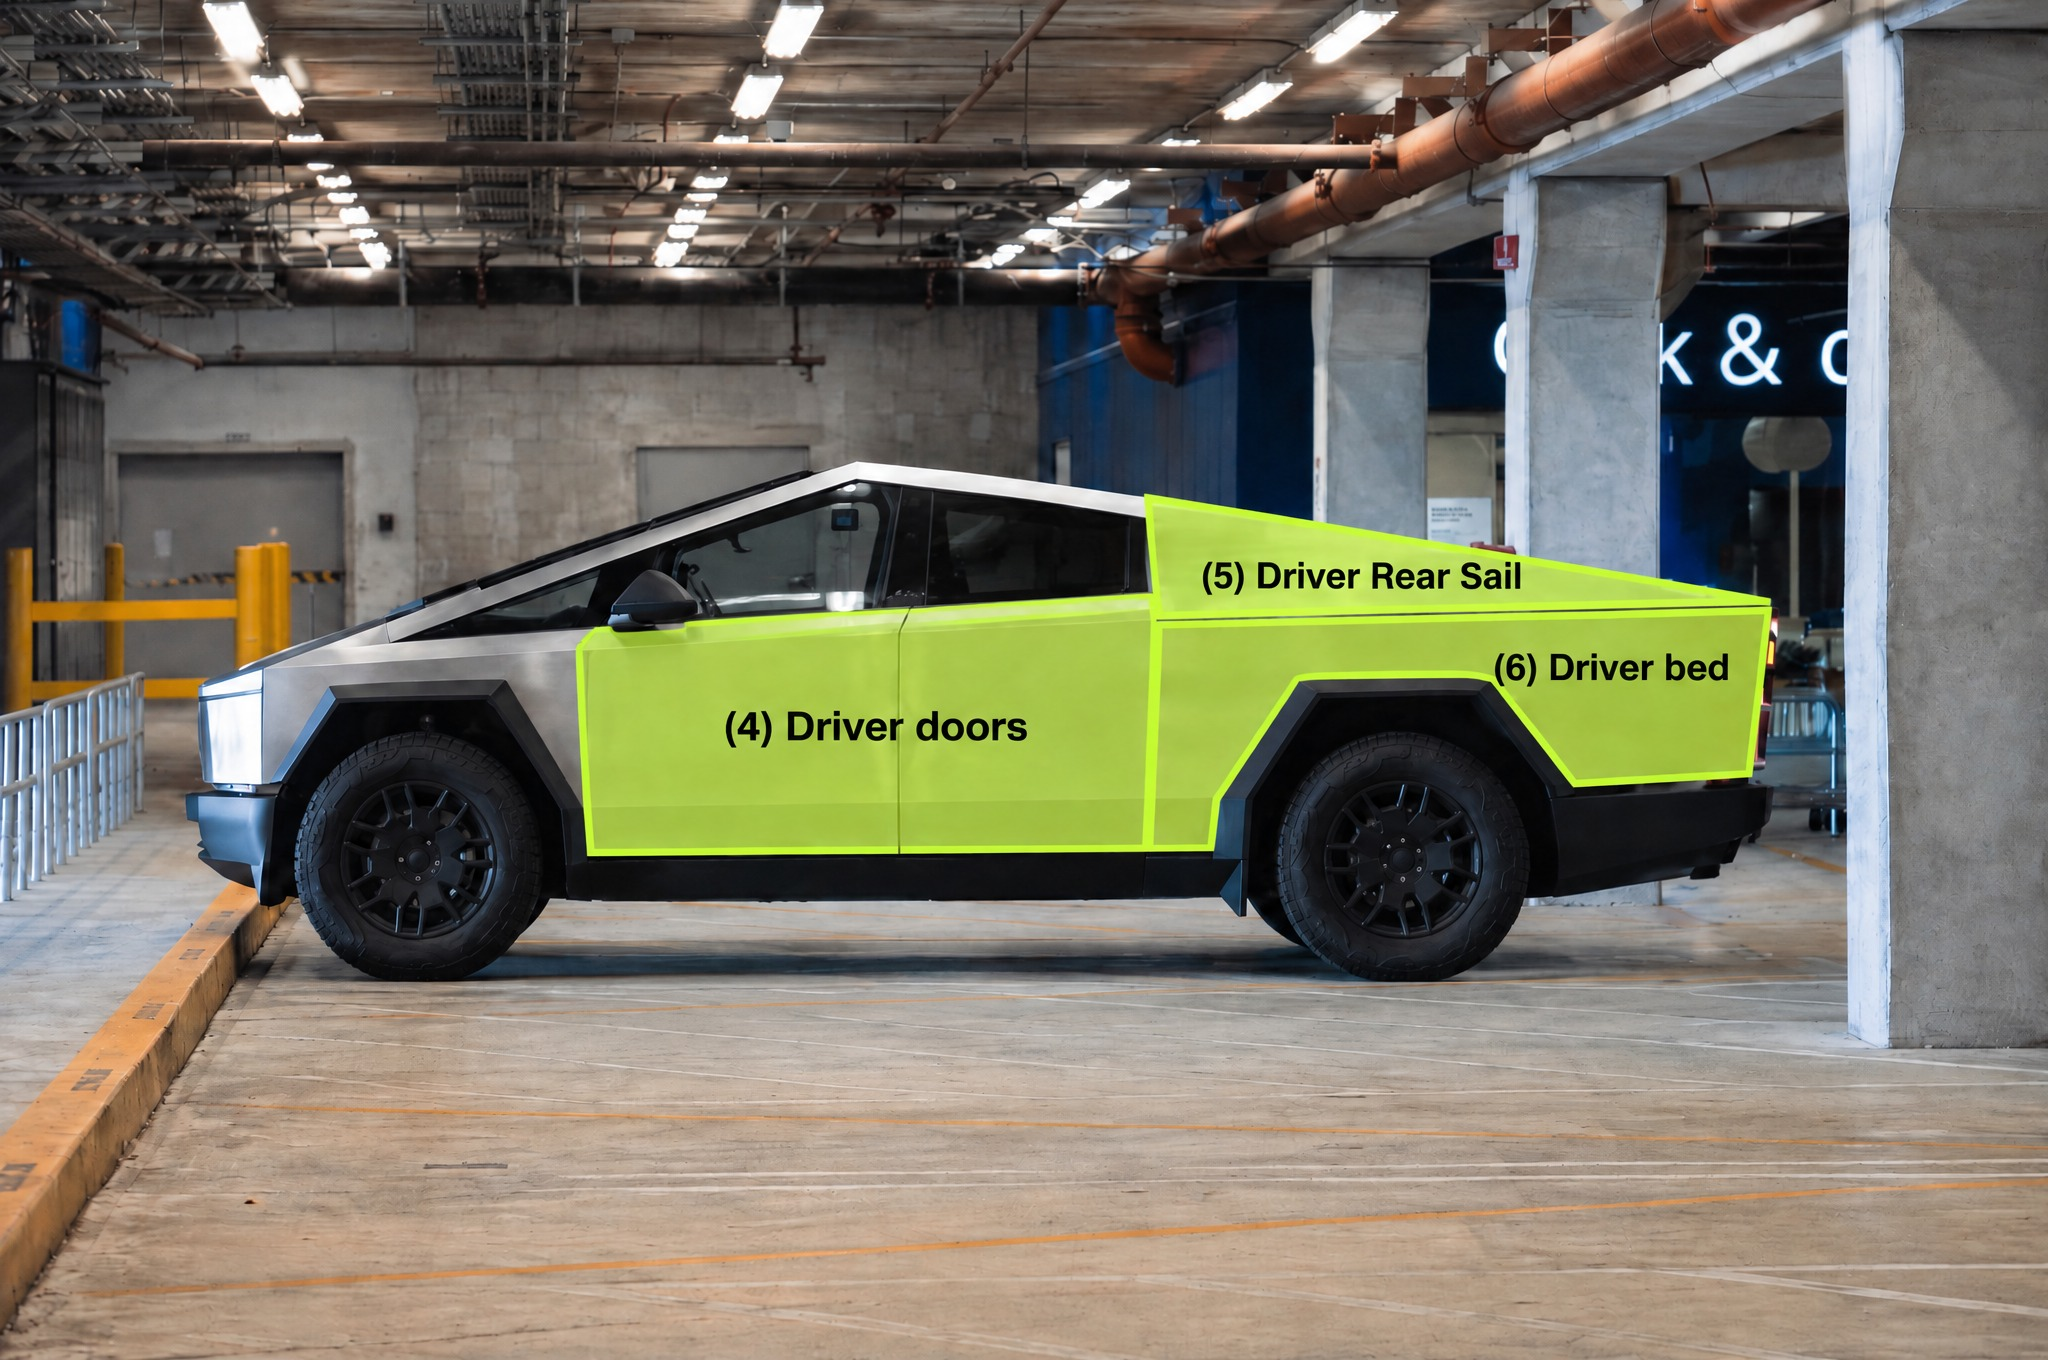
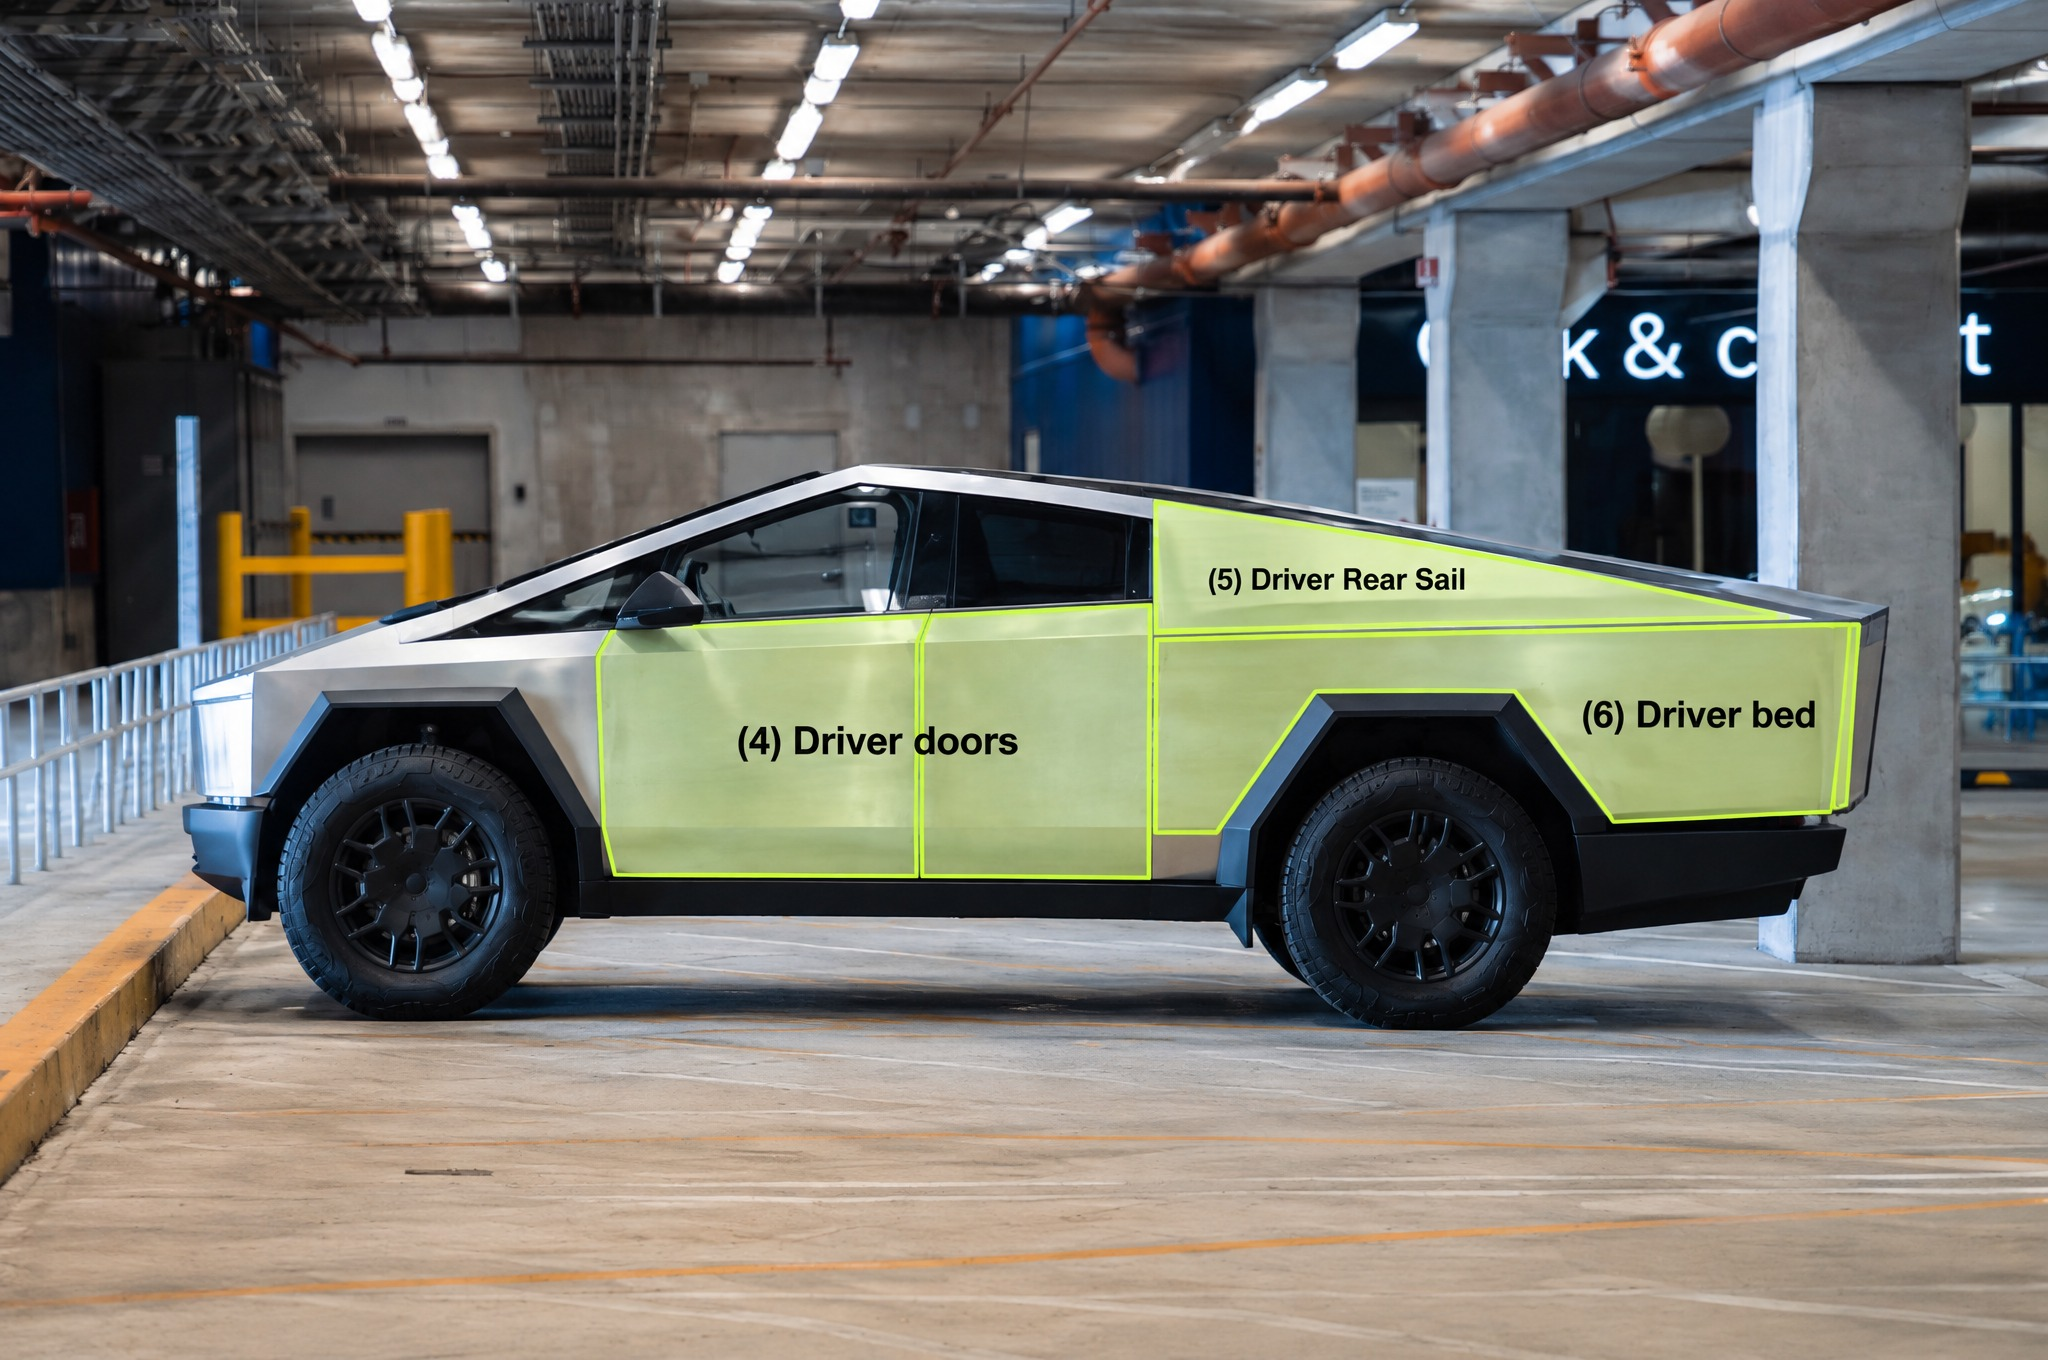
v8 side TRACE AIDS + transparent rest overlays (#425)
v8 light-wash Driver/Passenger TRACE AIDS. SVG rest transparent on all cameras. Floor $58k / buyout $120k. No lease.

diff --git a/tests/hybrid-panel-training-ux.spec.ts b/tests/hybrid-panel-training-ux.spec.ts
@@ -84,22 +84,53 @@ function fillAlpha(value: string): number {
   return 1;
 }
 
-async function hoverSeatInterior(page: Page, testId: string) {
-  const point = await page.getByTestId(testId).locator("polygon").evaluate((el) => {
-    const polygon = el as SVGPolygonElement;
-    const svg = polygon.ownerSVGElement;
-    if (!svg) throw new Error("polygon has no svg");
-    const ctm = polygon.getScreenCTM();
-    if (!ctm) throw new Error("no screen CTM");
-    const pts = [...polygon.points].map((pt) => ({ x: pt.x, y: pt.y }));
-    const cx = pts.reduce((sum, pt) => sum + pt.x, 0) / pts.length;
-    const cy = pts.reduce((sum, pt) => sum + pt.y, 0) / pts.length;
+function strokeIsOff(value: string): boolean {
+  return value === "none" || value === "transparent" || fillAlpha(value) === 0;
+}
+
+async function restPaint(page: Page, testId: string) {
+  return page.getByTestId(testId).locator("polygon").evaluate((el) => {
+    const style = getComputedStyle(el);
     return {
-      x: ctm.a * cx + ctm.c * cy + ctm.e,
-      y: ctm.b * cx + ctm.d * cy + ctm.f,
+      fill: style.fill,
+      fillOpacity: style.fillOpacity,
+      stroke: style.stroke,
+      strokeOpacity: style.strokeOpacity,
+      strokeWidth: style.strokeWidth,
     };
   });
-  await page.mouse.move(point.x, point.y);
+}
+
+async function assertRestHitOnly(page: Page, testId: string) {
+  const paint = await restPaint(page, testId);
+  const none = paint.fill === "none" || paint.fill === "transparent";
+  expect(
+    none || fillAlpha(paint.fill) < 0.05,
+    `${testId} rest fill ${paint.fill}`,
+  ).toBe(true);
+  if (!none) {
+    expect(Number(paint.fillOpacity), `${testId} rest fill-opacity`).toBeLessThan(
+      0.05,
+    );
+  }
+  expect(
+    strokeIsOff(paint.stroke),
+    `${testId} rest stroke ${paint.stroke}`,
+  ).toBe(true);
+  expect(Number.parseFloat(paint.strokeWidth), `${testId} rest stroke-width`).toBe(
+    0,
+  );
+}
+
+async function parkPointer(page: Page) {
+  await page.mouse.move(8, 8);
+}
+
+async function hoverSeatInterior(page: Page, testId: string) {
+  const seat = page.getByTestId(testId);
+  await seat.scrollIntoViewIfNeeded();
+  await expect(seat).toBeVisible();
+  await seat.hover({ force: true });
 }
 
 test.describe("hybrid panel training UX", () => {
@@ -253,22 +284,55 @@ test.describe("hybrid panel training UX", () => {
     );
     await expect(page.getByTestId("truck-seat-label-hood")).toHaveCount(0);
 
-    const hoodPoly = hood.locator("polygon");
-    const restFill = await hoodPoly.evaluate((el) => getComputedStyle(el).fill);
-    const restStroke = await hoodPoly.evaluate(
-      (el) => getComputedStyle(el).stroke,
-    );
-    expect(fillAlpha(restFill), restFill).toBeLessThan(0.05);
-    expect(
-      restStroke === "none" ||
-        restStroke === "transparent" ||
-        fillAlpha(restStroke) === 0,
-    ).toBe(true);
+    const cameras = [
+      { tab: "truck-view-driver", seat: "truck-seat-driver-door" },
+      { tab: "truck-view-passenger", seat: "truck-seat-passenger-door" },
+      { tab: "truck-view-front", seat: "truck-seat-hood" },
+      { tab: "truck-view-rear", seat: "truck-seat-tailgate" },
+    ] as const;
+    for (const camera of cameras) {
+      await page.getByTestId(camera.tab).click();
+      await parkPointer(page);
+      await assertRestHitOnly(page, camera.seat);
+    }
 
+    await page.getByTestId("truck-view-front").click();
+    await parkPointer(page);
+    const hoodPoly = hood.locator("polygon");
     await hoverSeatInterior(page, "truck-seat-hood");
     await expect
       .poll(async () => {
         const value = await hoodPoly.evaluate((el) => getComputedStyle(el).fill);
+        return fillAlpha(value);
+      })
+      .toBeGreaterThanOrEqual(0.35);
+
+    await page.getByTestId("truck-view-driver").click();
+    await expect(seats).toHaveAttribute("data-view", "driver");
+    await parkPointer(page);
+    await assertRestHitOnly(page, "truck-seat-driver-door");
+    await hoverSeatInterior(page, "truck-seat-driver-door");
+    await expect
+      .poll(async () => {
+        const value = await page
+          .getByTestId("truck-seat-driver-door")
+          .locator("polygon")
+          .evaluate((el) => getComputedStyle(el).fill);
+        return fillAlpha(value);
+      })
+      .toBeGreaterThanOrEqual(0.35);
+
+    await page.getByTestId("truck-view-passenger").click();
+    await expect(seats).toHaveAttribute("data-view", "passenger");
+    await parkPointer(page);
+    await assertRestHitOnly(page, "truck-seat-passenger-door");
+    await hoverSeatInterior(page, "truck-seat-passenger-door");
+    await expect
+      .poll(async () => {
+        const value = await page
+          .getByTestId("truck-seat-passenger-door")
+          .locator("polygon")
+          .evaluate((el) => getComputedStyle(el).fill);
         return fillAlpha(value);
       })
       .toBeGreaterThanOrEqual(0.35);

diff --git a/src/app/styles/board.css b/src/app/styles/board.css
@@ -2555,18 +2555,28 @@
   stroke-width: 0;
 }
 .truck-seat {
-  stroke: #d6ff3f;
-  stroke-width: 2.5px;
+  /* Rest paint is none on every camera — Driver / Passenger included.
+     `pointer-events: all` keeps the interior a hit target when fill is none. */
+  fill: none;
+  fill-opacity: 0;
+  stroke: none;
+  stroke-opacity: 0;
+  stroke-width: 0;
+  pointer-events: all;
   vector-effect: non-scaling-stroke;
-  transition: fill 140ms ease, stroke 140ms ease;
+  transition: fill 140ms ease, fill-opacity 140ms ease, stroke 140ms ease,
+    stroke-opacity 140ms ease, stroke-width 140ms ease;
 }
-/* Rest: no second outline — lime is baked into the TRACE AID JPEG.
-   Hover / active: lime shade fill only. */
+/* Rest: hit target only. Lime lives in the TRACE AID JPEG, not a second SVG wash.
+   Hover / focus / active: lime shade fill only. Same rule for all four cameras. */
 .truck-view-seats[data-polygons="outline"] .truck-seat,
 .truck-view-seats[data-polygons="outline"] .truck-seat.is-raw,
 .truck-view-seats[data-polygons="outline"] .truck-seat.is-held {
-  fill: transparent;
-  stroke: transparent;
+  fill: none;
+  fill-opacity: 0;
+  stroke: none;
+  stroke-opacity: 0;
+  stroke-width: 0;
 }
 .truck-view-seats[data-polygons="outline"] .truck-seat.is-active,
 .truck-view-seats[data-polygons="outline"] a:hover .truck-seat,
@@ -2574,7 +2584,10 @@
 .truck-view-seats[data-polygons="outline"] a:focus-visible .truck-seat,
 .truck-view-seats[data-polygons="outline"] a[data-active="true"] .truck-seat {
   fill: rgb(214 255 63 / 0.42);
+  fill-opacity: 1;
   stroke: #d6ff3f;
+  stroke-opacity: 1;
+  stroke-width: 2.5px;
 }
 .truck-view-seats[data-polygons="hidden"] .truck-seat,
 .truck-view-seats[data-polygons="hidden"] .truck-seat.is-raw,
@@ -2582,8 +2595,11 @@
 .truck-view-seats[data-polygons="hidden"] .truck-seat.is-active,
 .truck-view-seats[data-polygons="hidden"] a:hover .truck-seat.is-raw,
 .truck-view-seats[data-polygons="hidden"] a:focus-visible .truck-seat.is-raw {
-  fill: transparent;
-  stroke: transparent;
+  fill: none;
+  fill-opacity: 0;
+  stroke: none;
+  stroke-opacity: 0;
+  stroke-width: 0;
 }
 @media (prefers-reduced-motion: reduce) {
   .truck-seat {

diff --git a/src/components/TruckViewHotspots.tsx b/src/components/TruckViewHotspots.tsx
@@ -155,6 +155,7 @@ export function TruckViewHotspots({
                           : "truck-seat is-raw"
                     }
                     points={spot.points}
+                    fill="none"
                   />
                 </a>
               );
